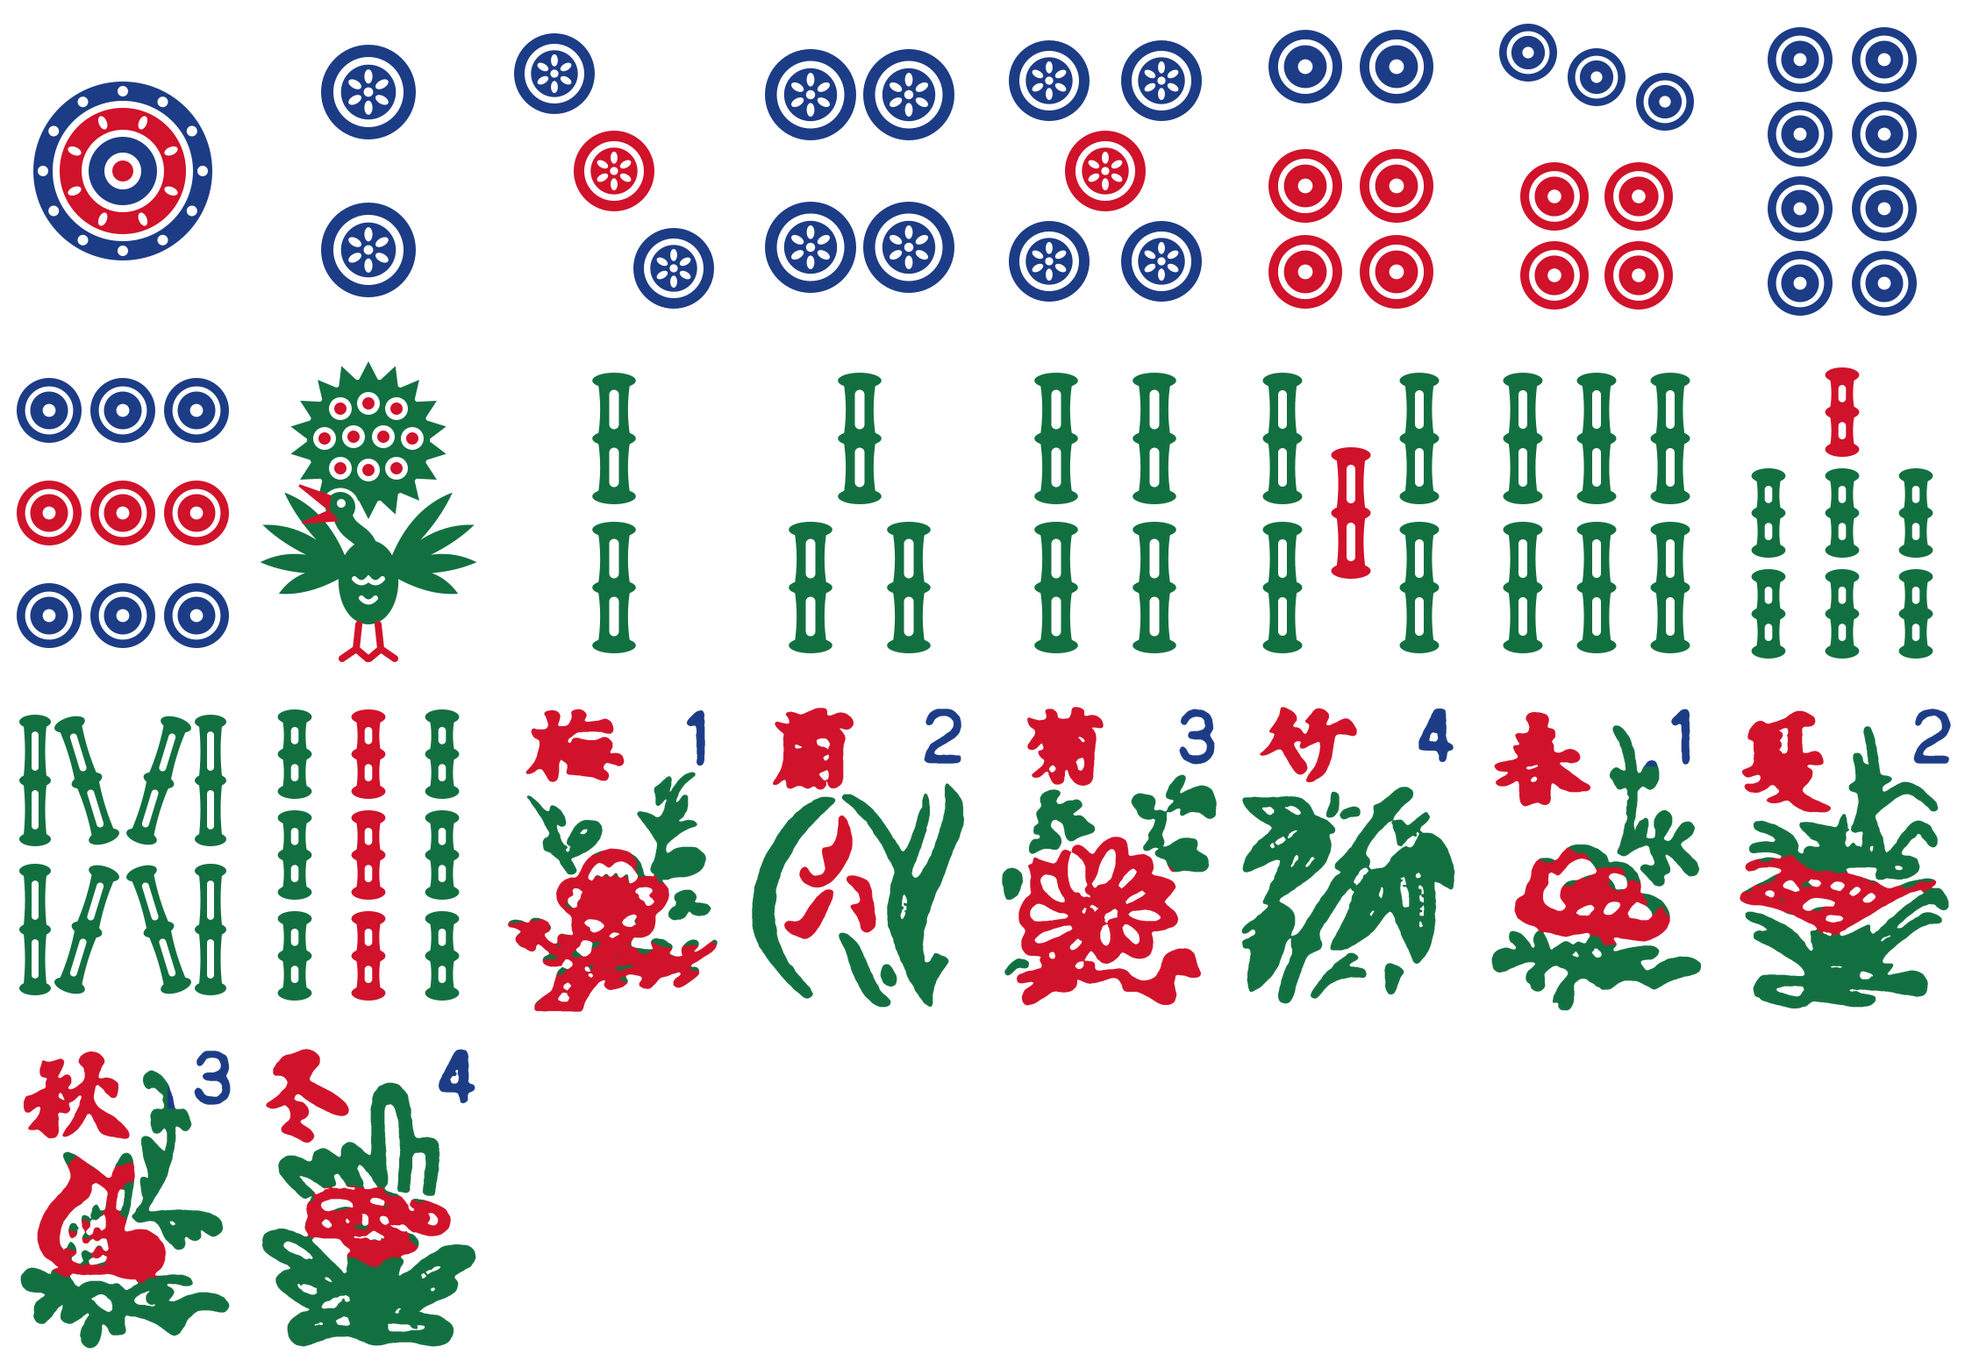
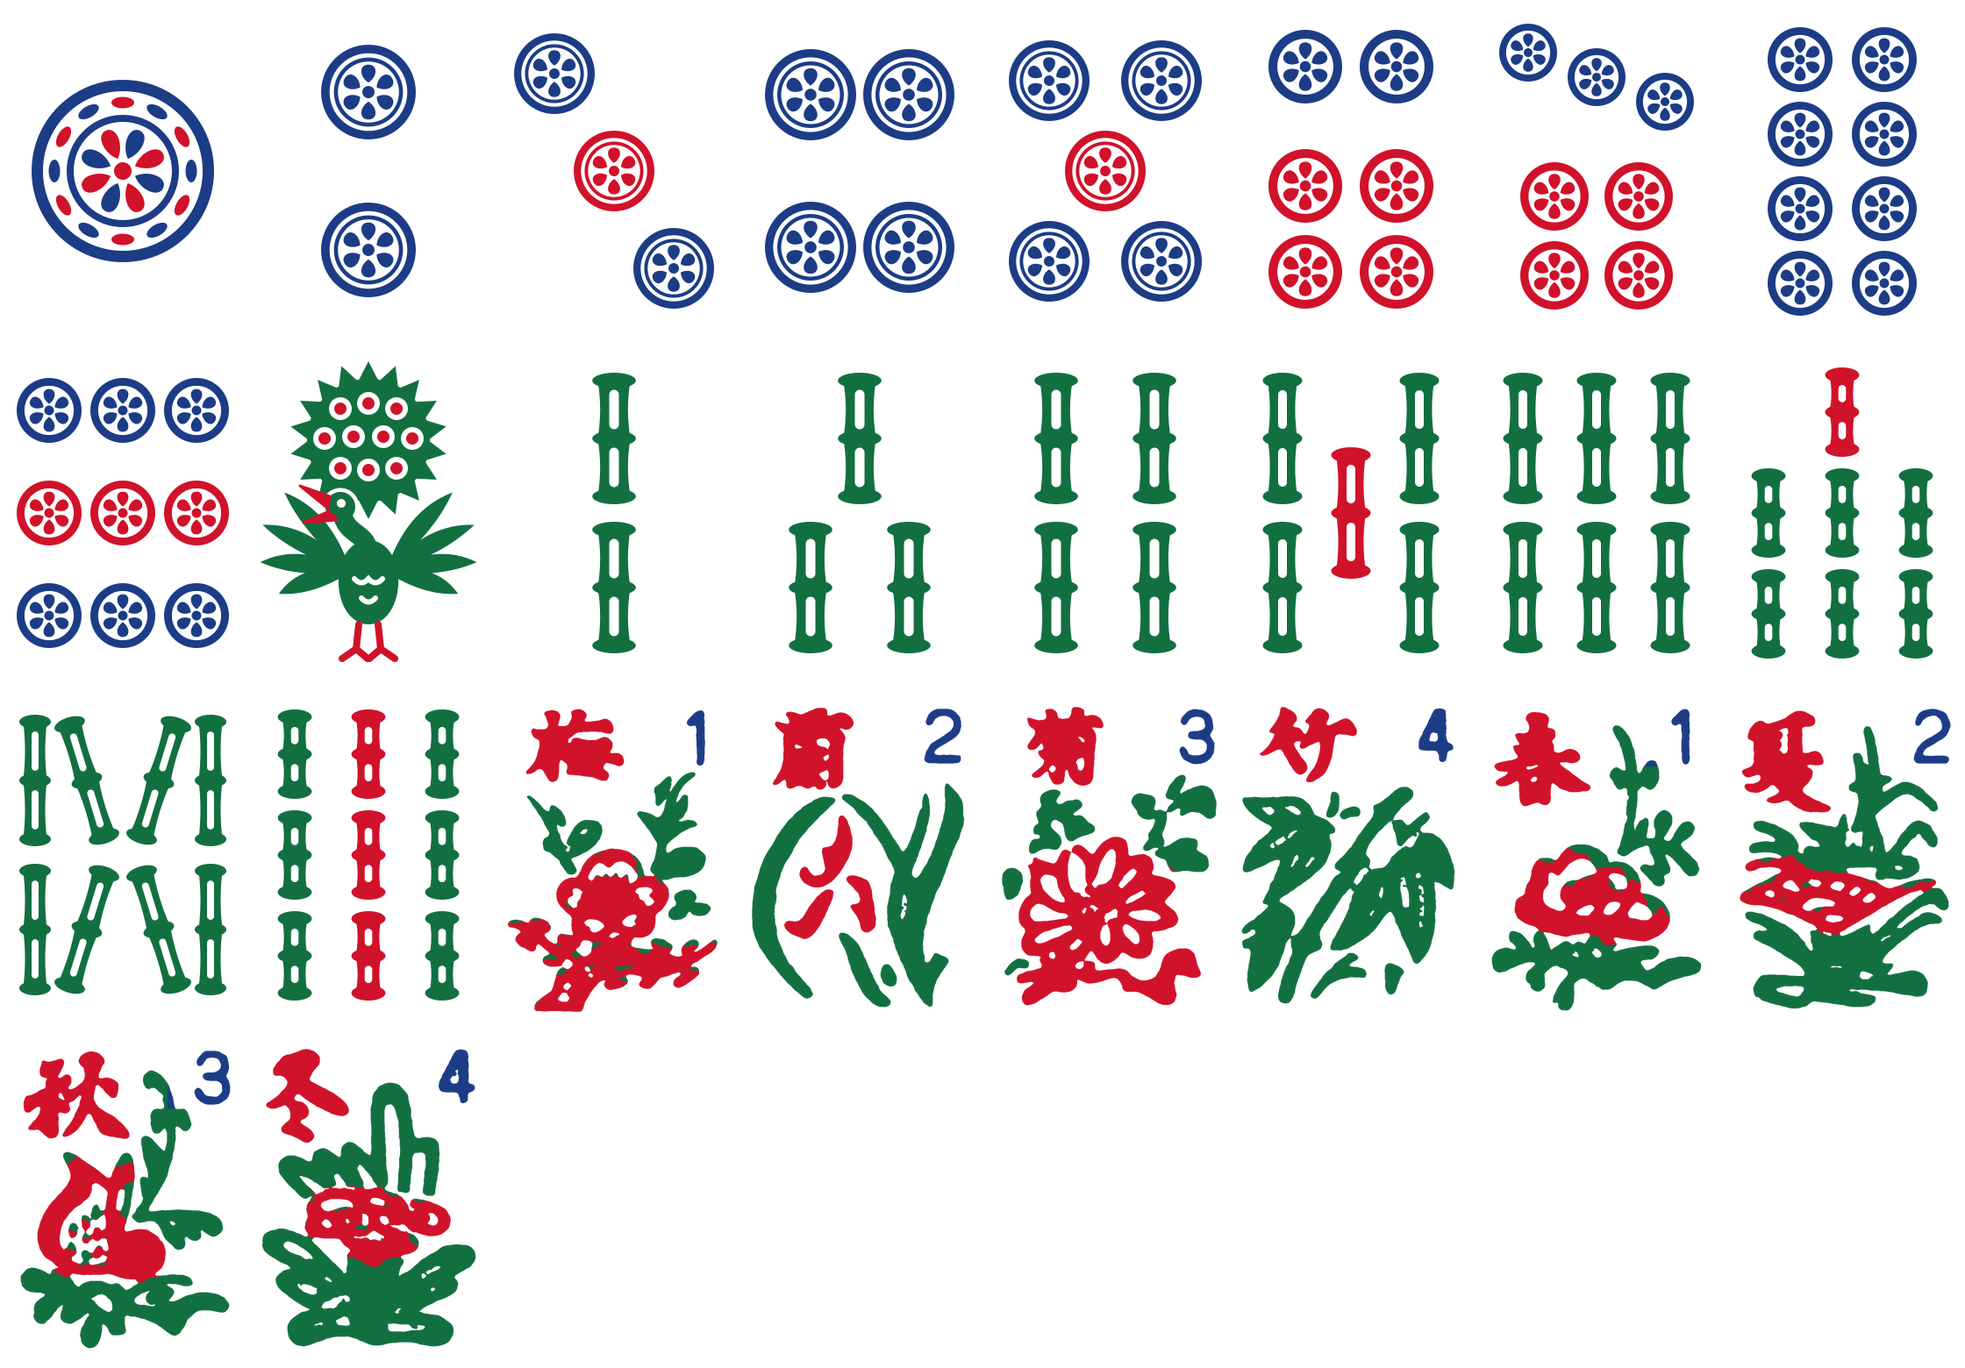
筒子を定番の柄で描き直し（太い外の輪・細い内の輪・6枚の花びら・芯、一筒は葉の帯と8枚の花）
Claude-Session: https://claude.ai/code/session_01EiWRAY4aDdMqqy3k8beuUq

diff --git a/atlas/lazy.js b/atlas/lazy.js
@@ -5,7 +5,7 @@
      AtlasLazy.has3D(id) / hasPlay(id) / hasRules(id) — known before loading; AtlasLazy.loaded(id) */
 (function () {
 'use strict';
-const G = {"reversi": ["games/reversi.js?v=53", "rules/reversi.js?v=14"], "shogi": ["models/shogi.js?v=101", "games/shogi-play.js?v=42", "games/shogi.js?v=16", "rules/shogi.js?v=21"], "chess": ["models/chess.js?v=16", "games/chess.js?v=18", "rules/chess.js?v=7"], "backgammon": ["models/backgammon.js?v=121", "games/backgammon.js?v=23", "rules/backgammon.js?v=11"], "gomoku": ["models/goban.js?v=15", "games/gomoku.js?v=15", "rules/gomoku.js?v=9"], "go": ["models/goban.js?v=15", "games/go.js?v=9", "rules/go.js?v=7"], "hex": ["models/goban.js?v=15", "models/hex.js?v=2", "games/hex.js?v=6", "rules/hex.js?v=6"], "tafl": ["games/tafl.js?v=15", "rules/tafl.js?v=7"], "xiangqi": ["models/xiangqi.js?v=4", "games/xiangqi.js?v=14", "rules/xiangqi.js?v=6"], "janggi": ["models/xiangqi.js?v=4", "models/janggi.js?v=3", "games/janggi.js?v=6", "rules/janggi.js?v=2"], "checkers": ["models/checkers.js?v=17", "games/checkers.js?v=8", "rules/checkers.js?v=4"], "ugolki": ["models/checkers.js?v=17", "models/ugolki.js?v=4", "games/ugolki.js?v=11", "rules/ugolki.js?v=8"], "morris": ["models/morris.js?v=7", "games/morris-pieces.js?v=2", "games/morris.js?v=7", "rules/morris.js?v=5"], "connect4": ["models/connect4.js?v=5", "games/connect4-tiles.js?v=1", "games/connect4.js?v=5", "rules/connect4.js?v=3"], "mancala": ["models/mancala.js?v=5", "games/mancala.js?v=10", "rules/mancala.js?v=4"], "dots": ["models/dots.js?v=4", "games/dots.js?v=9", "rules/dots.js?v=3"], "ur": ["models/ur-dice.js?v=2", "models/ur.js?v=5", "games/ur-kit.js?v=15", "games/ur.js?v=11", "rules/ur.js?v=16"], "fanorona": ["models/fanorona.js?v=4", "games/fanorona.js?v=6", "rules/fanorona.js?v=8"], "konane": ["models/konane.js?v=7", "games/konane.js?v=13", "rules/konane.js?v=5"], "amazons": ["models/amazons.js?v=7", "games/amazons.js?v=10", "rules/amazons.js?v=5"], "senet": ["models/ur-dice.js?v=2", "models/senet.js?v=10", "games/senet-kit.js?v=5", "games/senet.js?v=16", "rules/senet.js?v=8"], "agon": ["models/agon.js?v=4", "games/agon.js?v=12", "rules/agon.js?v=5"], "alquerque": ["models/alquerque.js?v=3", "rules/alquerque.js?v=6"], "ludo": ["../ludo/engine.js?v=3", "../ludo/house.js?v=7", "../ludo/board2d.js?v=7", "../ludo/board-art.js?v=3", "models/ludo.js?v=10", "games/ludo.js?v=28", "rules/ludo.js?v=3"], "carrom": ["../carrom/engine.js?v=7", "models/carrom.js?v=18", "games/carrom.js?v=38", "rules/carrom.js?v=8"], "crokinole": ["../carrom/engine.js?v=7", "games/carrom.js?v=38", "../crokinole/engine.js?v=4", "models/crokinole.js?v=13", "games/crokinole.js?v=15", "rules/crokinole.js?v=4"], "hockey": ["../hockey/engine.js?v=15", "models/hockey.js?v=8", "games/hockey.js?v=30", "rules/hockey.js?v=7"], "shanghai": ["games/shanghai-core.js?v=1", "games/shanghai-i18n.js?v=1", "models/shanghai.js?v=13", "games/shanghai.js?v=2"], "peg": ["../peg/engine.js?v=1", "../peg/i18n.js?v=7", "models/peg.js?v=21", "games/peg.js?v=4", "rules/peg.js?v=4"]};
+const G = {"reversi": ["games/reversi.js?v=53", "rules/reversi.js?v=14"], "shogi": ["models/shogi.js?v=101", "games/shogi-play.js?v=42", "games/shogi.js?v=16", "rules/shogi.js?v=21"], "chess": ["models/chess.js?v=16", "games/chess.js?v=18", "rules/chess.js?v=7"], "backgammon": ["models/backgammon.js?v=121", "games/backgammon.js?v=23", "rules/backgammon.js?v=11"], "gomoku": ["models/goban.js?v=15", "games/gomoku.js?v=15", "rules/gomoku.js?v=9"], "go": ["models/goban.js?v=15", "games/go.js?v=9", "rules/go.js?v=7"], "hex": ["models/goban.js?v=15", "models/hex.js?v=2", "games/hex.js?v=6", "rules/hex.js?v=6"], "tafl": ["games/tafl.js?v=15", "rules/tafl.js?v=7"], "xiangqi": ["models/xiangqi.js?v=4", "games/xiangqi.js?v=14", "rules/xiangqi.js?v=6"], "janggi": ["models/xiangqi.js?v=4", "models/janggi.js?v=3", "games/janggi.js?v=6", "rules/janggi.js?v=2"], "checkers": ["models/checkers.js?v=17", "games/checkers.js?v=8", "rules/checkers.js?v=4"], "ugolki": ["models/checkers.js?v=17", "models/ugolki.js?v=4", "games/ugolki.js?v=11", "rules/ugolki.js?v=8"], "morris": ["models/morris.js?v=7", "games/morris-pieces.js?v=2", "games/morris.js?v=7", "rules/morris.js?v=5"], "connect4": ["models/connect4.js?v=5", "games/connect4-tiles.js?v=1", "games/connect4.js?v=5", "rules/connect4.js?v=3"], "mancala": ["models/mancala.js?v=5", "games/mancala.js?v=10", "rules/mancala.js?v=4"], "dots": ["models/dots.js?v=4", "games/dots.js?v=9", "rules/dots.js?v=3"], "ur": ["models/ur-dice.js?v=2", "models/ur.js?v=5", "games/ur-kit.js?v=15", "games/ur.js?v=11", "rules/ur.js?v=16"], "fanorona": ["models/fanorona.js?v=4", "games/fanorona.js?v=6", "rules/fanorona.js?v=8"], "konane": ["models/konane.js?v=7", "games/konane.js?v=13", "rules/konane.js?v=5"], "amazons": ["models/amazons.js?v=7", "games/amazons.js?v=10", "rules/amazons.js?v=5"], "senet": ["models/ur-dice.js?v=2", "models/senet.js?v=10", "games/senet-kit.js?v=5", "games/senet.js?v=16", "rules/senet.js?v=8"], "agon": ["models/agon.js?v=4", "games/agon.js?v=12", "rules/agon.js?v=5"], "alquerque": ["models/alquerque.js?v=3", "rules/alquerque.js?v=6"], "ludo": ["../ludo/engine.js?v=3", "../ludo/house.js?v=7", "../ludo/board2d.js?v=7", "../ludo/board-art.js?v=3", "models/ludo.js?v=10", "games/ludo.js?v=28", "rules/ludo.js?v=3"], "carrom": ["../carrom/engine.js?v=7", "models/carrom.js?v=18", "games/carrom.js?v=38", "rules/carrom.js?v=8"], "crokinole": ["../carrom/engine.js?v=7", "games/carrom.js?v=38", "../crokinole/engine.js?v=4", "models/crokinole.js?v=13", "games/crokinole.js?v=15", "rules/crokinole.js?v=4"], "hockey": ["../hockey/engine.js?v=15", "models/hockey.js?v=8", "games/hockey.js?v=30", "rules/hockey.js?v=7"], "shanghai": ["games/shanghai-core.js?v=1", "games/shanghai-i18n.js?v=1", "models/shanghai.js?v=14", "games/shanghai.js?v=2"], "peg": ["../peg/engine.js?v=1", "../peg/i18n.js?v=7", "models/peg.js?v=21", "games/peg.js?v=4", "rules/peg.js?v=4"]};
 const F = {"reversi": {"t3": true, "play": true, "rules": true}, "shogi": {"t3": true, "play": true, "rules": true}, "chess": {"t3": true, "play": true, "rules": true}, "backgammon": {"t3": true, "play": true, "rules": true}, "gomoku": {"t3": true, "play": true, "rules": true}, "go": {"t3": true, "play": true, "rules": true}, "hex": {"t3": true, "play": true, "rules": true}, "tafl": {"t3": true, "play": true, "rules": true}, "xiangqi": {"t3": true, "play": true, "rules": true}, "janggi": {"t3": true, "play": true, "rules": true}, "checkers": {"t3": true, "play": true, "rules": true}, "ugolki": {"t3": true, "play": true, "rules": true}, "morris": {"t3": true, "play": true, "rules": true}, "connect4": {"t3": true, "play": true, "rules": true}, "mancala": {"t3": true, "play": true, "rules": true}, "dots": {"t3": true, "play": true, "rules": true}, "ur": {"t3": true, "play": true, "rules": true}, "fanorona": {"t3": true, "play": true, "rules": true}, "konane": {"t3": true, "play": true, "rules": true}, "amazons": {"t3": true, "play": true, "rules": true}, "senet": {"t3": true, "play": true, "rules": true}, "agon": {"t3": true, "play": true, "rules": true}, "alquerque": {"t3": true, "play": false, "rules": true}, "ludo": {"t3": true, "play": true, "rules": true}, "carrom": {"t3": true, "play": true, "rules": true}, "crokinole": {"t3": true, "play": true, "rules": true}, "hockey": {"t3": true, "play": true, "rules": true}, "peg": {"t3": true, "play": true, "rules": true}, "shanghai": {"t3": true, "play": true, "rules": false}};
 const done = new Set(), loading = new Map(), ok = new Set();
 function load(src) {

diff --git a/atlas/models/shanghai.js b/atlas/models/shanghai.js
@@ -93,7 +93,7 @@
   }
   // 筒子・索子・花／季節: the pictures traced in colour from the same photos (atlas/tools/shanghai-glyphs.py art →
   // atlas/img/shanghai-art.png, 8×4 RGBA cells: 0–8 筒子, 9–17 索子 (9 = 一索の鳥), 18–21 梅蘭菊竹, 22–25 春夏秋冬), 2026-11-14
-  const ART_URL = new URL('../img/shanghai-art.png?v=8', (document.currentScript && document.currentScript.src) || location.href).href;
+  const ART_URL = new URL('../img/shanghai-art.png?v=9', (document.currentScript && document.currentScript.src) || location.href).href;
   let artImg = null;
   const artCell = f => f >= 9 && f < 27 ? f - 9 : f >= 34 && f < 42 ? 18 + (f - 34) : -1;
   function art(c, f) { const k = artCell(f); if (!artImg || k < 0) return false; c.drawImage(artImg, (k % 8) * GW, Math.floor(k / 8) * GH, GW, GH, 0, 0, 256, 362); return true; }

diff --git a/mahjong/tiles.js b/mahjong/tiles.js
@@ -111,7 +111,7 @@ const GW = 280, GH = 390, SHEET = new URL('../atlas/img/', (document.currentScri
 let gImg = null, aImg = null, readyP = null;
 function ready() {
   const one = (u, set) => new Promise(res => { const im = new Image(); im.onload = () => { set(im); res(); }; im.onerror = () => res(); im.src = (root.JANKA_ASSETS ? root.JANKA_ASSETS + 'tiles/' : SHEET) + u; setTimeout(res, 5000); });
-  return readyP || (readyP = Promise.all([one('shanghai-glyphs.png?v=2', im => { gImg = im; }), one('shanghai-art.png?v=8', im => { aImg = im; })]));
+  return readyP || (readyP = Promise.all([one('shanghai-glyphs.png?v=2', im => { gImg = im; }), one('shanghai-art.png?v=9', im => { aImg = im; })]));
 }
 const GROUND = '#fafaf6';
 // one cell of a sheet in a colour (glyph sheet: channel ch; art sheet: ch < 0 keeps its colours, or recolours all to `col`)

diff --git a/mahjong/index.html b/mahjong/index.html
@@ -110,7 +110,7 @@ else document.write('<script src="../atlas/vendor/three-r186.min.js?v=1"><\/scri
 <script src="skills.js?v=8"></script>
 <script src="game.js?v=7"></script>
 <script src="ai.js?v=6"></script>
-<script src="tiles.js?v=9"></script>
+<script src="tiles.js?v=10"></script>
 <script src="chars.js?v=3"></script>
 <script src="img/tex/baked.js?v=2"></script>
 <script src="table3d.js?v=18"></script>

diff --git a/atlas/index.html b/atlas/index.html
@@ -2260,7 +2260,7 @@ window.AtlasRgdTimer = function (btn, ms, alive) {
   }, 60);
 };</script>
 <script src="../shared/tapword.js?v=1"></script>
-<script src="lazy.js?v=211"></script>
+<script src="lazy.js?v=212"></script>
 <script src="puzzle-lines.js?v=1"></script>
 <script src="puzzles.js?v=26"></script>
 <script src="lessons3d.js?v=26"></script>

diff --git a/atlas/tools/shanghai-svg/gen.py b/atlas/tools/shanghai-svg/gen.py
@@ -61,34 +61,37 @@ SOU = {
 
 
 # ---------------------------------------------------------------- 筒子
+def petals(x, y, n, r0, r1, w, cols, rot=0):
+    """花びら n 枚：中心側がとがり、外側が丸いしずく形（放射状）。"""
+    o = []
+    for i in range(n):
+        a = i * 360 / n + rot
+        o.append('<path d="M%s 0 C%s %s %s %s %s 0 C%s %s %s %s %s 0 Z" fill="%s" transform="translate(%s %s) rotate(%s)"/>' % (
+            f(r0), f(r0 + (r1 - r0) * .35), f(-w), f(r1), f(-w), f(r1), f(r1), f(w), f(r0 + (r1 - r0) * .35), f(w), f(r0), cols[i % len(cols)], f(x), f(y), f(a)))
+    return ''.join(o)
+
+
 def pin(x, y, r, col):
-    """丸1つ：外の輪・白いすき間・中の円。大きい丸だけ中に白い花びら（6つの点）を入れ、小さい丸は中心の白い点だけ。"""
-    o = ['<circle cx="%s" cy="%s" r="%s" fill="%s"/>' % (f(x), f(y), f(r), col),
-         '<circle cx="%s" cy="%s" r="%s" fill="%s"/>' % (f(x), f(y), f(r * .74), W),
-         '<circle cx="%s" cy="%s" r="%s" fill="%s"/>' % (f(x), f(y), f(r * .58), col)]
+    """丸1つ（筒子の定番の柄、2026-11-14 ユーザー：特有の柄をちゃんと再現）：太い外の輪 → 白いすき間 → 細い内の輪 → 6枚の花びら → 芯。
+    小さい丸（6〜9筒）は線が潰れないよう内の輪を省き、外の輪と花びらを太めにする。"""
+    c = lambda rr, k: '<circle cx="%s" cy="%s" r="%s" fill="%s"/>' % (f(x), f(y), f(rr), k)
     if r >= 44:
-        for i in range(6):
-            a = math.radians(i * 60 + 30)
-            px, py = x + math.cos(a) * r * .33, y + math.sin(a) * r * .33
-            o.append('<ellipse cx="%s" cy="%s" rx="%s" ry="%s" fill="%s" transform="rotate(%s %s %s)"/>' % (f(px), f(py), f(r * .15), f(r * .085), W, f(i * 60 + 30), f(px), f(py)))
-        o.append('<circle cx="%s" cy="%s" r="%s" fill="%s"/>' % (f(x), f(y), f(r * .1), W))
+        o = [c(r, col), c(r * .82, W), c(r * .73, col), c(r * .645, W), petals(x, y, 6, r * .2, r * .58, r * .2, [col], 30), c(r * .13, col)]
     else:
-        o.append('<circle cx="%s" cy="%s" r="%s" fill="%s"/>' % (f(x), f(y), f(r * .2), W))
+        o = [c(r, col), c(r * .76, W), petals(x, y, 6, r * .2, r * .66, r * .23, [col], 30), c(r * .15, col)]
     return ''.join(o)
 
 
 def pin1():
+    """一筒：太い外の輪 → 葉の帯（赤と紺が交互）→ 内の輪 → 8枚の大きな花（紺と赤が交互）→ 芯。"""
     x, y = 140, 195
     c = lambda r, col: '<circle cx="%s" cy="%s" r="%s" fill="%s"/>' % (x, y, f(r), col)
-    o = [c(102, B), c(80, W), c(72, R), c(47, W), c(39, B), c(21, W), c(12, R)]
-    for i in range(12):   # 外の輪の白い珠
-        a = math.radians(i * 30)
-        o.append('<circle cx="%s" cy="%s" r="6" fill="%s"/>' % (f(x + math.cos(a) * 91), f(y + math.sin(a) * 91), W))
-    for i in range(8):    # 赤い輪の白い花びら
-        a = i * 45 + 22.5
-        o.append('<ellipse cx="%s" cy="%s" rx="8" ry="4.6" fill="%s" transform="rotate(%s %s %s)"/>' % (
-            f(x + math.cos(math.radians(a)) * 59.5), f(y + math.sin(math.radians(a)) * 59.5), W, f(a),
-            f(x + math.cos(math.radians(a)) * 59.5), f(y + math.sin(math.radians(a)) * 59.5)))
+    o = [c(104, B), c(91, W)]
+    for i in range(12):   # 葉の帯
+        a = i * 30
+        px, py = x + math.cos(math.radians(a)) * 78, y + math.sin(math.radians(a)) * 78
+        o.append('<ellipse cx="%s" cy="%s" rx="6.5" ry="13" fill="%s" transform="rotate(%s %s %s)"/>' % (f(px), f(py), R if i % 2 else B, f(a), f(px), f(py)))
+    o += [c(64, B), c(56, W), petals(x, y, 8, 15, 50, 13, [B, R], 22.5), c(10, R)]
     return ''.join(o)
 
 

diff --git a/claude/mahjong-spec.md b/claude/mahjong-spec.md
@@ -89,7 +89,7 @@
 - 3Dの牌（`table3d.js` roundTile）：角と縁を丸めた白い本体＋紫の背（ユーザー指定：裏面は紫）。面は彫り（`MJTiles.normal`：塗りは平ら、文字のすぐ外の白い縁が溝へ落ちる法線マップ、墨入れなし）。
 - 牌の背（2026-11-14）：濃い袱紗の紫に、ごく控えめな石目とつや（ユーザー：素材感は薄く、紫は濃く、模様はもっと目立たなく＝雲状の濃淡はなし、筋はかすか）。最初は淡いラベンダーの磨いた石（キャンバスの石目＋クリアコート＋小さなスタジオの映り込み、隣と模様がそろわないよう4通りの切り出し）。2D表示の牌の背と側面も同じ色味に。
 - 牌の絵の清書と彫り（2026-11-14、Fable）：
-  - 索子・筒子・一索は `atlas/tools/shanghai-svg/gen.py` が SVG を生成（手で直さない）。索子は定番の配置（2〜9本、5・7・9 と一索に赤、8索は M と W）、竹は上・中・下に丸い節＋稈のまん中に白い筋。一索は定番の構図（上に丸い尾羽＝とげの縁と白い輪に赤い芯の目玉、下に翼を扇に広げた正面の孔雀、横を向いて口を開ける、赤い脚）を**線画ではなく太い面**で描く。筒子の小さい丸（6〜9筒）は輪＋中の円＋白い点だけ、大きい丸は白い花びら6枚。**線・すき間は 280 幅のセルで 7 以上**（手牌の表示で約2px）を守り、それより細かい模様は潰れるので描かない。
+  - 索子・筒子・一索は `atlas/tools/shanghai-svg/gen.py` が SVG を生成（手で直さない）。索子は定番の配置（2〜9本、5・7・9 と一索に赤、8索は M と W）、竹は上・中・下に丸い節＋稈のまん中に白い筋。一索は定番の構図（上に丸い尾羽＝とげの縁と白い輪に赤い芯の目玉、下に翼を扇に広げた正面の孔雀、横を向いて口を開ける、赤い脚）を**線画ではなく太い面**で描く。筒子は定番の柄を再現する（ユーザー指示）：太い外の輪 → 白いすき間 → 細い内の輪 → 6枚のしずく形の花びら → 芯。小さい丸（6〜9筒）だけ内の輪を省いて外の輪と花びらを太くする。一筒は外の輪 → 赤と紺の葉の帯 → 内の輪 → 8枚の大きな花。**線・すき間は 280 幅のセルで 7 以上**（手牌の表示で約2px）を守り、それより細かい模様は潰れるので描かない。
   - シートの白（彫り残し）は透明にする（赤ドラは塗った画素だけを赤に塗り替えるため）。
   - 彫り（`tiles.js` depthOf）：塗りの範囲をぼかして溝の断面（U字：縁のすぐ外から壁が落ち、約3px内側で平らな底。細い線は浅い）を作る。3Dの牌はそこから法線マップ（`MJTiles.normal`）。**2Dの牌（手牌・ドラ表示など `MJTiles.url`）は左上からの光で焼き込む**（`lit`：光に近い壁の下に淡い陰、反対の壁に光の筋。塗りは自分の色のまま＝墨入れなし）。
   - 2Dの牌の白い面（app.css `.tl`）：左上からのごく淡い艶のグラデーション＋上の縁の光・下の縁の陰。絵は multiply で重ねる。
